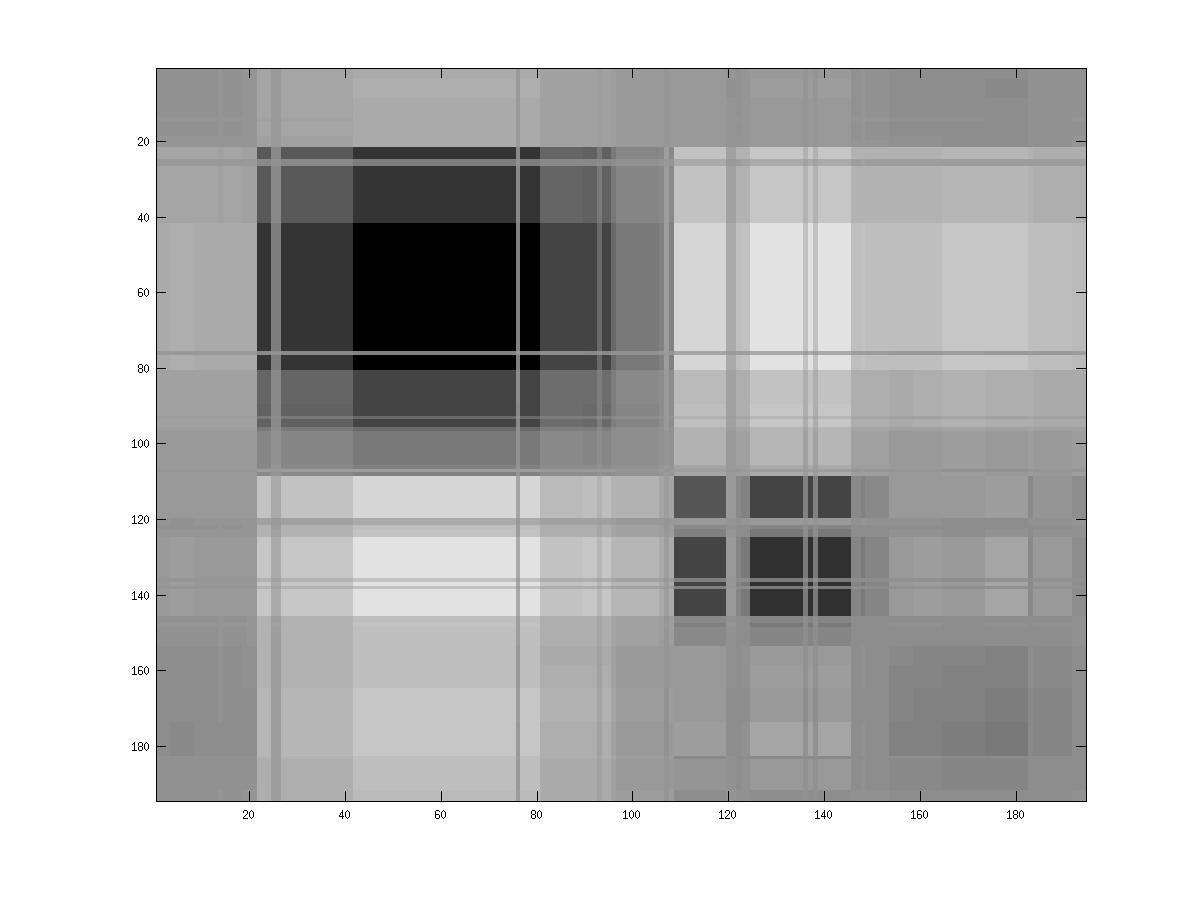
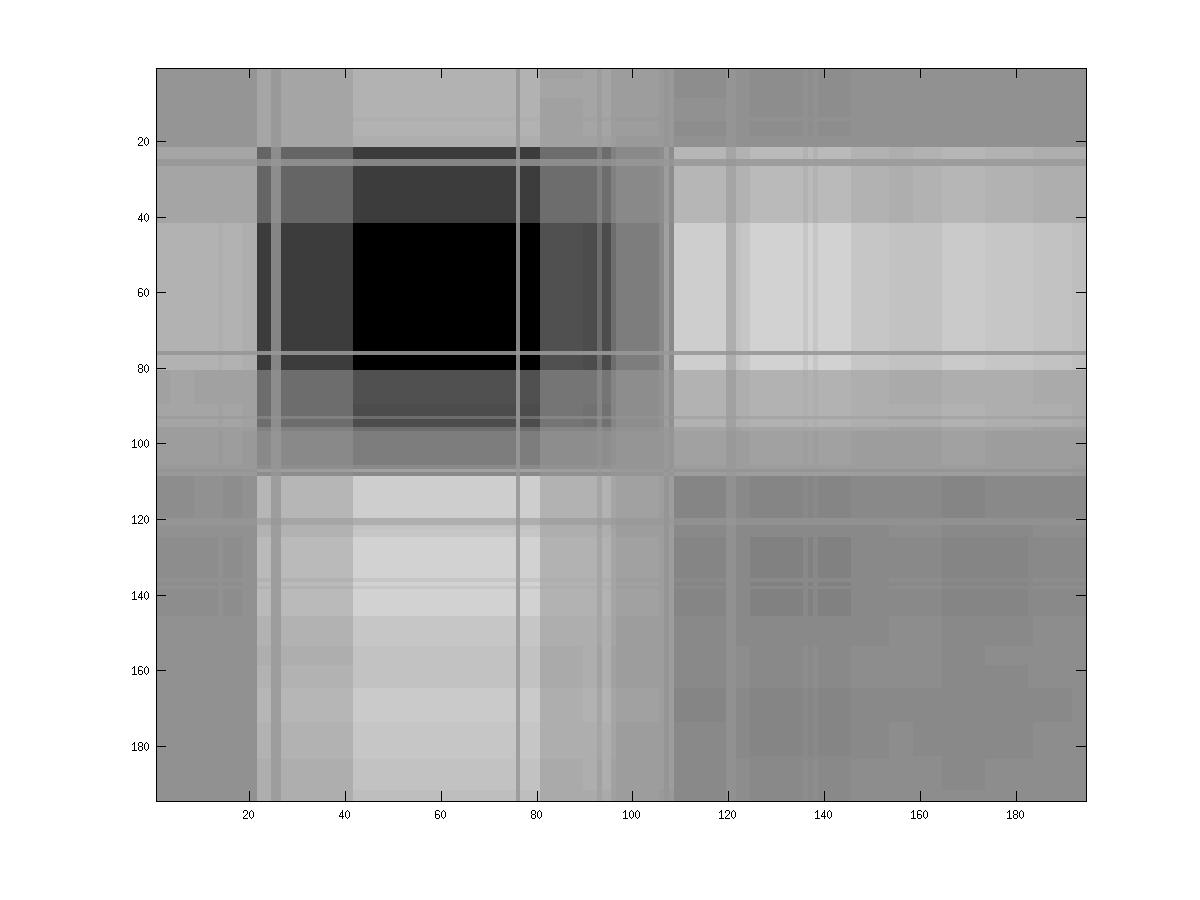
Added a demo file for 3 gaussians with 45,000 data points

Changed region(s): [[0.555, 0.5289, 0.7092, 0.6844], [0.8017, 0.5911, 0.8633, 0.6844], [0.6167, 0.7778, 0.7092, 0.84]]

diff --git a/demo_3g.m b/demo_3g.m
@@ -1,0 +1,49 @@
+%clear MATLAB workspace
+clear
+close all
+
+%generate 3 gaussian clouds
+a=normrnd(repmat([1,1],15000,1), 0.8);
+b=normrnd(repmat([1,5],15000,1), 0.8);
+c=normrnd(repmat([4,3],15000,1), 0.8);
+data = [a;b;c];
+
+%compute the squared relational matrix
+D = squareform(pdist(data,'euclidean').^2);
+n = size(D,1);
+
+%visualized the squared matrix
+f = figure('Visible','off');imagesc(D);colormap('gray');colorbar;
+print(f, '-djpeg', 'Results/3G/Images/3G_square.jpg');
+
+%plot the 3 gaussians
+f = figure('Visible','off');scatter(data(:,1),data(:,2));colormap('gray');colorbar;
+print(f, '-djpeg', 'Results/3G/Images/3G_scatter.jpg');
+
+                    
+%% iRFCM configurations/options (those are the default values)
+options.fuzzifier        = 2;
+options.epsilon          = 0.0001;
+options.maxIter          = 100;
+options.initType         = 2;
+options.gamma            = 0;
+
+%set the number of clusters to 3
+c= 3;
+
+%run RFCM
+out = irfcm(D,c,options);
+if isfield(out,'Error')
+   fprintf('%s',out.Error); 
+end
+
+U = out.U;
+
+%visualize the partition matrix
+f = figure('Visible','off');imagesc(U);colormap('gray');caxis([0 1]);
+print(f, '-djpeg', 'Results/3G/Images/U(3G).jpg');
+
+%visualize the induced dissimilarity matrix
+uu = 1 - ((U'*U)./max(max(U'*U)));
+f = figure('Visible','off');imagesc(uu);colormap('gray');caxis([0 1]);
+print(f, '-djpeg', 'Results/3G/Images/D(U_3G).jpg');
